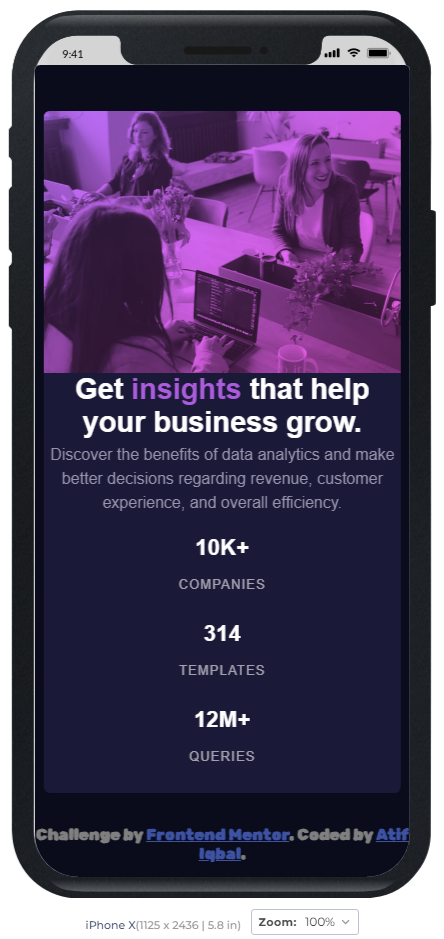
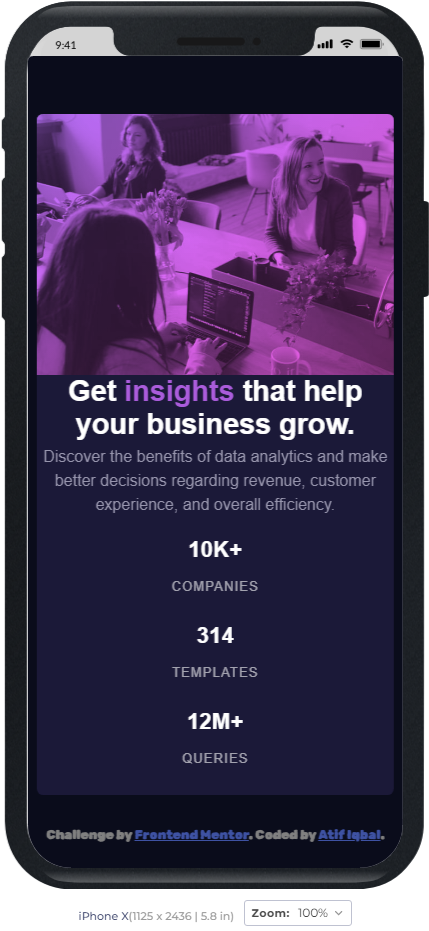
files modified

Changed region(s): [[0.0, 0.0, 1.0, 0.9968]]

diff --git a/main.scss b/main.scss
@@ -239,6 +239,13 @@ h1{
             font-size: 1rem;
         }
     }
+
+    .attribution{
+        // background-color: red;
+        font-size: .8rem;
+        // width: 100%;
+        // margin: 0 auto;
+    }
 }
 
 footer{

diff --git a/main.css b/main.css
@@ -221,6 +221,9 @@ h1 {
   .ranking div {
     font-size: 1rem;
   }
+  .attribution {
+    font-size: 0.8rem;
+  }
 }
 footer {
   position: relative;
